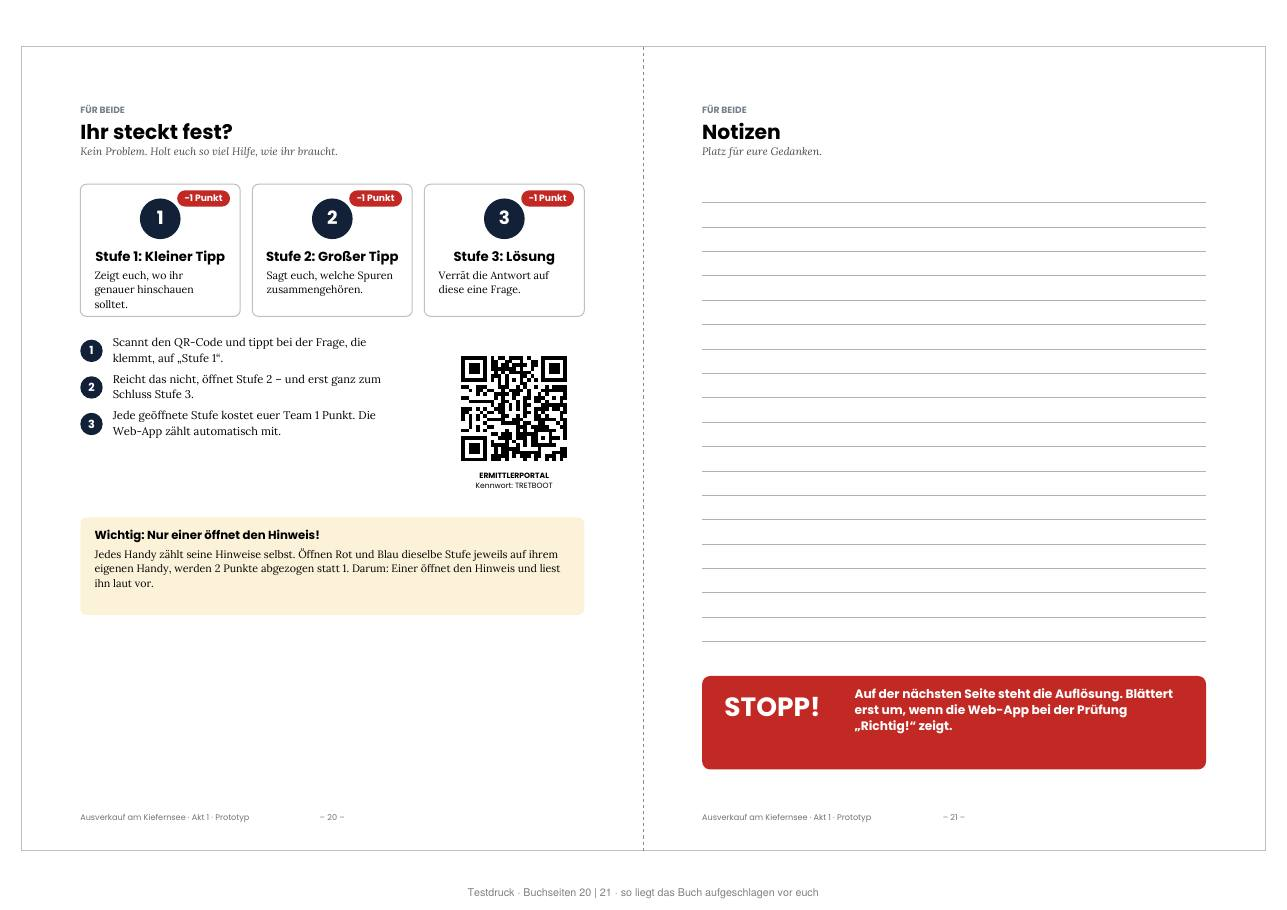
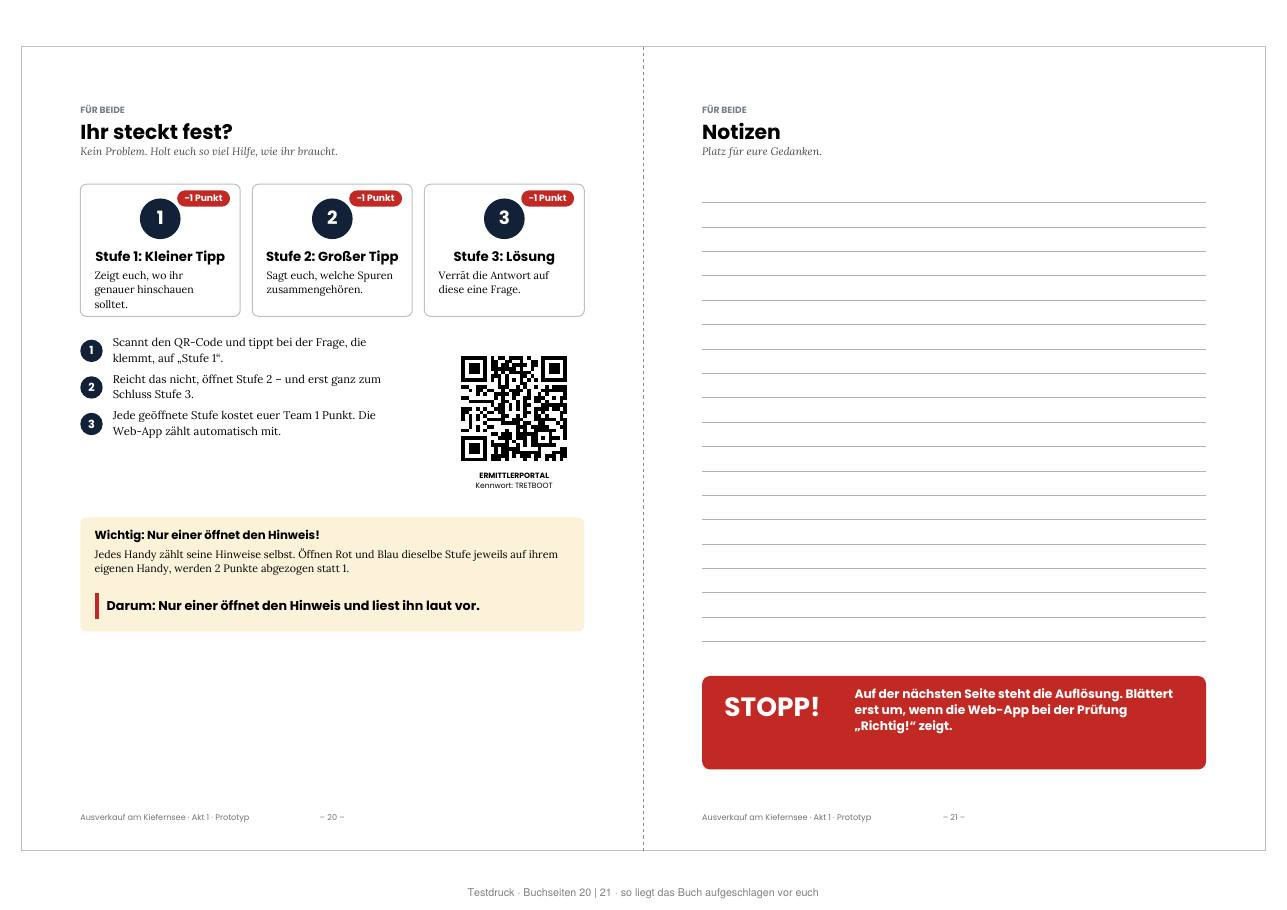
Seite 20: Satz zum Hinweis-Öffnen fett und abgesetzt; R-5: Notruf darf vorgespielt werden
Claude-Session: https://claude.ai/code/session_01AHTeNhKiCXfFq7WDMQCHQc

Changed region(s): [[0.0622, 0.6154, 0.4662, 0.7077]]

diff --git a/index.html b/index.html
@@ -135,7 +135,7 @@ button:disabled{opacity:.45;cursor:not-allowed}
 <div class="score"><div><b id="scoreTxt">10 Punkte</b><div id="scoreSub" class="small"></div></div><span aria-hidden="true">🔍</span></div>
 <p class="small" style="margin:0">📖 Notizbogen und Auflösung findet ihr im Buch.</p>
 <div><div class="navlab">Für beide</div><nav class="menu" aria-label="Gemeinsam"><button data-view="plan" class="alle"><b>Lageplan</b><span class="small">Luftbild</span></button><button data-view="cast" class="alle"><b>Personen</b><span class="small">Wer ist wer</span></button><button data-view="code" class="alle"><b>Code-Prüfung</b><span class="small">Akt 1 abschließen</span></button><button data-view="hints" class="alle"><b>Hinweise</b><span class="small">Hilfe in drei Stufen</span></button><button data-view="akt" class="alle"><b>Akt 1 abschließen</b><span class="small">Verdacht versiegeln</span></button><button data-view="neu" class="alle"><b>Neues Spiel</b><span class="small">Spielstand löschen</span></button></nav></div>
-<section id="v-r1" class="card rot" hidden><span class="lab"><span class="tag rot">AKTE ROT</span> R-1 · Erster Angriff, Kriminalpolizei Seebrück</span><h2>Bericht zum Leichenfund</h2><dl class="form"><dt>Aktenzeichen</dt><dd><p>31 Js 0926/BR</p></dd><dt>Meldung</dt><dd><p>Samstag, 26.09., 06:44 Uhr, Notruf über Leitstelle (Anruferin: Rita Schäfer)</p></dd><dt>Fundort</dt><dd><p>Campingplatz am Kiefernsee, Nordostufer, Schilfgürtel. Wassertiefe ca. 60 cm.</p></dd><dt>Person</dt><dd><p>Holger Brandner, 58 J., wohnhaft Frankfurt am Main. Gast in Mietchalet 3.</p></dd><dt>Auffindesituation</dt><dd><p>Leiche in Bauchlage im Flachwasser, unmittelbar neben dem treibenden Tretboot „Chantal“. Bekleidung: Jeans, Hemd, Sakko, Lederslipper.</p></dd><dt>Verletzungen</dt><dd><p>Platzwunde am Hinterkopf, ca. 4 cm. Keine Abwehrverletzungen.</p></dd><dt>Rechtsmedizin (vorläufig)</dt><dd><p>Dr. A. Okonkwo: Tod durch Ertrinken. Die Kopfverletzung entstand vor dem Eintritt ins Wasser, das Opfer war vermutlich bewusstlos. In der Wunde: mehrere kleine Holzsplitter, Nadelholz, vermutlich Lärche, mit grauer Lasur.</p><p>Todeszeitpunkt nach Körpertemperatur: zwischen 22:00 und 2:00 Uhr. Wegen der Wassertemperatur nicht enger bestimmbar.</p></dd><dt>Tretboot „Chantal“</dt><dd><p>Kunststoff (PE), Baujahr 2025. Keine Beschädigungen, keine Blut- oder Haaranhaftungen. Die Ankerkette hängt nicht am Boot.</p></dd><dt>Bearbeitung</dt><dd><p>EKHK&#x27;in J. Wendland, KK Brüggemann</p></dd></dl><figure class="photo"><a href="bilder/fundort.jpg" target="_blank" rel="noopener"><img src="bilder/fundort.jpg" alt="Rosa Tretboot leer im Schilf, davor rot-weißes Absperrband" loading="lazy"></a><figcaption>Lichtbild 1: Fundort am Schilfgürtel, Sa 26.09., 07:10 Uhr (nach Bergung)</figcaption></figure></section><section id="v-r2" class="card rot" hidden><span class="lab"><span class="tag rot">AKTE ROT</span> R-2 · Sichergestellte Gegenstände, Samstag, 26.09.</span><h2>Asservatenverzeichnis</h2><ol class="assv"><li><b class="mono">Nr. 1</b> <b>Brieftasche, Leder, schwarz</b><span>Fundort: am Körper, Innentasche Sakko</span><span>Inhalt: 240 € bar, 2 Kreditkarten, Ausweis</span></li><li><b class="mono">Nr. 2</b> <b>Ehering, Gold</b><span>Fundort: am Körper</span><span>Gravur „H. &amp; S. 1994“</span></li><li><b class="mono">Nr. 3</b> <b>Smartphone</b><span>Fundort: Tretboot, Sitzfläche</span><span>nass, aber funktionsfähig. Zur Auswertung (siehe Akte Blau)</span></li><li><b class="mono">Nr. 4</b> <b>Lesebrille</b><span>Fundort: Tretboot, Fußraum</span><span>–</span></li><li><b class="mono">Nr. 5</b> <b>Autoschlüssel (Mercedes)</b><span>Fundort: Mietchalet 3, Tisch</span><span>Fahrzeug steht auf Gästeparkplatz</span></li><li><b class="mono">Nr. 6</b> <b>Laptop</b><span>Fundort: Mietchalet 3, Reisetasche</span><span>passwortgeschützt</span></li><li><b class="mono">Nr. 7</b> <b>Reisetasche mit Kleidung</b><span>Fundort: Mietchalet 3</span><span>ordentlich gepackt</span></li><li><b class="mono">Nr. 8</b> <b>Kette mit Vorhängeschloss</b><span>Fundort: Bootssteg</span><span>gehört zum Tretboot „Chantal“. Schloss geöffnet, NICHT aufgebrochen (Lichtbild 2)</span></li></ol><p class="msg"><b>Vermerk:</b> Bargeld und Kreditkarten vollständig vorhanden. Ein Raubmord erscheint daher unwahrscheinlich. Mietchalet 3 war nicht abgeschlossen, keine Einbruchsspuren.</p><figure class="photo"><a href="bilder/asservat.jpg" target="_blank" rel="noopener"><img src="bilder/asservat.jpg" alt="Lose Kette und daneben ein geöffnetes, unbeschädigtes Vorhängeschloss auf grauen Holzbrettern, gelber Markierungsaufsteller" loading="lazy"></a><figcaption>Lichtbild 2: Asservat Nr. 8 auf dem Bootssteg, Sa 26.09., 07:25 Uhr</figcaption></figure></section><section id="v-r3" class="card rot" hidden><span class="lab"><span class="tag rot">AKTE ROT</span> R-3 · Handschriftlich geführt von Sven Ruppert, Nacht von Freitag auf Samstag</span><h2>Rundgangsprotokoll Sicherheitsdienst</h2><p class="small mono">SICHERHEITSDIENST RUPPERT · Objekt: Camping Kiefernsee · Datum: 25./26.09.</p><ol class="log"><li><b>22:00</b><span>Schranke geschlossen. Nachtruhe beginnt.</span></li><li><b>22:47</b><span>Parzelle 14 (Kowalski): Schlagermusik deutlich zu laut. Ermahnt. Zweite Ermahnung diesen Monat!!</span></li><li><b>23:30</b><span>Bootssteg: beide Tretboote („Kevin“ + „Chantal“) angekettet. Alles in Ordnung. Steg noch leicht klebrig.</span></li><li><b>23:34</b><span>Igel bei Sanitär 1. Kein Handlungsbedarf.</span></li><li><b>0:30</b><span>Bootssteg: Boot „Chantal“ FEHLT!! Kette liegt auf dem Steg, Schloss offen, nicht beschädigt. Vermutlich vom Hausmeister nicht richtig abgeschlossen. → Meldung an Rezeption morgen früh.</span></li><li><b>1:15</b><span>Sanitär 2: Licht brennt, niemand drin. Ausgeschaltet. Stromverschwendung!!</span></li><li><b>2:00</b><span>Schranke: ohne Befund.</span></li><li><b>3:00</b><span>Rundgang beendet. Keine besonderen Vorkommnisse.</span></li></ol><p class="sig">S. Ruppert</p></section><section id="v-r4" class="card rot" hidden><span class="lab"><span class="tag rot">AKTE ROT</span> R-4 · Samstag, 26.09., 07:30 Uhr, Rezeption. Vernehmung durch KK Brüggemann</span><h2>Vernehmung der Zeugin Rita Schäfer</h2><div class="qa mono"><p class="f"><b>F:</b> Frau Schäfer, Sie haben Herrn Brandner gefunden. Erzählen Sie bitte.</p><p class="a"><b>A:</b> Um 6:38. Ich fahr jeden Morgen die Brötchen aus, mit dem Lastenrad am Ufer lang. Da seh ich die Chantal im Schilf hängen. Und daneben im Wasser … den Herrn Brandner. Ich hab sofort die 110 angerufen.</p><p class="f"><b>F:</b> Ist Ihnen in der Nacht etwas aufgefallen?</p><p class="a"><b>A:</b> Ich wohn ja auf Parzelle 3, direkt am Steg. So gegen halb zwei hat&#x27;s da unten richtig laut PLATSCH gemacht. Ich hab noch gedacht: Jetzt ist einer reingefallen.</p><p class="f"><b>F:</b> Sind Sie nachsehen gegangen?</p><p class="a"><b>A:</b> Ich hatte schon die Lockenwickler drin. Da geh ich nicht mehr raus.</p><p class="f"><b>F:</b> Und vorher, so gegen Mitternacht?</p><p class="a"><b>A:</b> Da hab ich geschlafen. Ich schlaf ab zehn. Außer donnerstags, da kommt „Bauer sucht Frau“.</p><p class="f"><b>F:</b> Hatte Herr Brandner bei Ihnen Brötchen bestellt?</p><p class="a"><b>A:</b> Zwei Laugenbrezeln für Chalet 3. Die liegen jetzt noch in meinem Korb.</p></div><p class="small">Selbst gelesen, genehmigt, unterschrieben:</p><p class="sig">Rita Schäfer</p></section><section id="v-r5" class="card rot" hidden><span class="lab"><span class="tag rot">AKTE ROT</span> R-5 · Wetterstation an der Gaststätte Seeklause, Nacht 25./26.09.</span><h2>Wetterdaten und Notruf</h2><div class="scroll"><table class="mono"><thead><tr><th>Uhrzeit</th><th>Temp. °C</th><th>Wind aus</th><th>km/h</th></tr></thead><tbody><tr><td>22:00</td><td>11,8</td><td>SW</td><td>14</td></tr><tr><td>23:00</td><td>11,2</td><td>SW</td><td>18</td></tr><tr><td>0:00</td><td>10,6</td><td>SW</td><td>22</td></tr><tr><td>1:00</td><td>10,1</td><td>SW</td><td>20</td></tr><tr><td>2:00</td><td>9,7</td><td>SW</td><td>16</td></tr><tr><td>3:00</td><td>9,4</td><td>W</td><td>12</td></tr><tr><td>4:00</td><td>9,0</td><td>W</td><td>9</td></tr><tr><td>5:00</td><td>8,8</td><td>W</td><td>6</td></tr><tr><td>6:00</td><td>8,6</td><td>W</td><td>5</td></tr></tbody></table></div><p class="small mono">Niederschlag: 0 mm. Hinweis Wetterdienst: Ein Wind aus Südwest (SW) weht nach Nordosten.</p><h2 style="font-size:18px">Mitschnitt des Notrufs</h2><div class="voice"><span class="mono small">Leitstelle Seebrück · Sa 26.09. · 06:44 Uhr · 0:21</span><audio controls preload="metadata" src="audio/notruf-r5.mp3">Euer Browser kann die Aufnahme nicht abspielen.</audio></div><details class="voice"><summary>Abschrift anzeigen</summary><div class="mono" style="font-size:14px;display:flex;flex-direction:column;gap:6px"><p class="small">LEITSTELLE SEEBRÜCK · Notruf Sa 26.09., 06:44:12 Uhr · Anruferin: Rita Schäfer · Dauer 0:21</p><p><b>Leitstelle:</b> Notruf Leitstelle Seebrück. Wo genau ist der Notfallort?</p><p><b>Anruferin:</b> Hier ist die Rita vom Kiefernsee! Da liegt einer im Wasser, beim Schilf, das ist der Herr Brandner. Der bewegt sich nicht! Das Tretboot ist auch da, die Chantal. Bitte kommen Sie schnell!</p><p><b>Leitstelle:</b> Bleiben Sie, wo Sie sind, und gehen Sie nicht ins Wasser. Rettungswagen und Polizei sind unterwegs.</p><p class="small">06:45 Uhr: Rettungswagen und Streife alarmiert.</p></div></details></section><section id="v-b1" class="card blau" hidden><span class="lab"><span class="tag blau">AKTE BLAU</span> B-1 · Interessengemeinschaft der Dauercamper am Kiefernsee e. V. (in Gründung)</span><h2>Protokoll der Platzversammlung</h2><dl class="form"><dt>Ort / Zeit</dt><dd><p>Gaststätte Seeklause, Freitag, 25.09., 19:00 bis 21:30 Uhr</p></dd><dt>Anwesend</dt><dd><p>31 Dauercamper, Platzbetreiber Mark Böttcher, Herr Holger Brandner (Brandner Freizeit &amp; Resort GmbH), Hausmeister Marco Lenz, Sicherheitsdienst Sven Ruppert (am Eingang), Frau Nova Sommer (Gast)</p></dd><dt>TOP 1</dt><dd><p>Begrüßung durch Herrn Böttcher. Er möchte „mit 61 nicht mehr jeden Morgen Rasen mähen und Beschwerden lesen“.</p></dd><dt>TOP 2</dt><dd><p>Herr Brandner stellt das „Kiefernsee Glamping Resort“ vor: 40 Safarizelte, ein Saunafloß, die Dauerparzellen enden am 31.12.2027. Er holt den Vorvertrag aus seiner roten Ledermappe und sagt: „Hier fehlt nur noch eine Unterschrift.“</p></dd><dt>TOP 3</dt><dd><p>Aussprache, sehr lebhaft. Herr Kowalski: „Nur über meinen Grill.“ Frau Sommer fragt, ob es im Resort Steckdosen für Vans gibt. Herr Lenz fragt, ob das Personal übernommen wird. Herr Brandner: „Wir bringen unser eigenes Team mit.“ Herr Lenz verlässt kurz den Raum.</p></dd><dt>TOP 4</dt><dd><p>Abstimmung (nicht bindend): 0 dafür, 31 dagegen, 1 Enthaltung (Herr Ruppert, „aus dienstlichen Gründen neutral“).</p></dd><dt>Ende</dt><dd><p>21:30 Uhr. Herr Brandner verabschiedet sich mit der roten Mappe unter dem Arm: „Ich bin noch bis Sonntag in Chalet 3. Meine Tür steht offen.“</p></dd><dt>Sonstiges</dt><dd><p>Die Bowle war zu süß.</p></dd></dl><p class="sig">A. Wohlfahrt</p><p class="small">Angelika Wohlfahrt, Schriftführerin</p></section><section id="v-b2" class="card blau" hidden><span class="lab"><span class="tag blau">AKTE BLAU</span> B-2 · Auszug vom Handy von Angelika Wohlfahrt, Donnerstag bis Samstag</span><h2>Chat „Kiefernsee Dauercamper“</h2><div class="chat"><div class="day">DONNERSTAG, 24. SEPTEMBER</div><div class="bub"><b>Marco (Hausmeister)</b><span class="t">17:02</span><p>Steg ist frisch lasiert. Lärche, grau. Bis Freitagabend bitte NICHT betreten!! Auch nicht „nur kurz“, Siggi.</p></div><div class="bub"><b>Siggi P14</b><span class="t">17:05</span><p>Das mit den Fußspuren letztes Jahr war ich nicht.</p></div><div class="bub own"><b>Ich</b><span class="t">17:06</span><p>Doch.</p></div><div class="day">FREITAG, 25. SEPTEMBER</div><div class="bub own"><b>Ich</b><span class="t">12:30</span><p>Erinnerung: Heute 19 Uhr Versammlung in der Seeklause. Thema: Herr Brandner und seine „Glamping-Pläne“. Bitte zahlreich erscheinen!</p></div><div class="bub"><b>Siggi P14</b><span class="t">12:41</span><p>Ich bring meinen Grill mit. Als Argument.</p></div><div class="bub"><b>Siggi P14</b><span class="t">21:48</span><p>Habt ihr gesehen, wie der seine rote Mappe festhält? Wie ein Baby.</p></div><div class="bub own"><b>Ich</b><span class="t">21:49</span><p>Da ist der Vorvertrag drin. Wenn Mark unterschreibt, sind wir Ende 2027 alle weg.</p></div><div class="bub"><b>Mark (Platzbetreiber)</b><span class="t">21:52</span><p>Leute, ich hab noch nichts unterschrieben. Schlaft drüber. Ich auch.</p></div><div class="bub"><b>Sven (Security)</b><span class="t">23:05</span><p>Erinnerung: Ab 22 Uhr ist Nachtruhe. Parzelle 14, ich hör den Schlager bis zur Schranke.</p></div><div class="bub"><b>Siggi P14</b><span class="t">23:06</span><p>Das ist Kultur.</p></div><div class="day">SAMSTAG, 26. SEPTEMBER</div><div class="bub"><b>Rita P3</b><span class="t">06:52</span><p>POLIZEI IST SCHON DA. Am Schilf. Der Herr Brandner. Oh Gott.</p></div><div class="bub own"><b>Ich</b><span class="t">06:58</span><p>Was ist passiert??</p></div><div class="bub"><b>Mark (Platzbetreiber)</b><span class="t">07:03</span><p>Bitte alle auf euren Parzellen bleiben. Die Polizei will mit jedem sprechen.</p></div></div></section><section id="v-b3" class="card blau" hidden><span class="lab"><span class="tag blau">AKTE BLAU</span> B-3 · Kriminaltechnik Seebrück · Gerät aus dem Tretboot</span><h2>Sprachnachricht an Dr. Kessler</h2><p>Das Handy von Holger Brandner war nass, ließ sich aber auslesen. Die letzte Aktivität vor dem Tod ist eine Sprachnachricht an seinen Anwalt. Ihr dürft sie Akte Rot vorspielen.</p><div class="voice"><span class="mono small">Von: Holger Brandner · An: Dr. Kessler (Kanzlei) · Fr 23:41 · 0:19</span><audio controls preload="metadata" src="audio/sprachnachricht-b3.mp3">Euer Browser kann die Aufnahme nicht abspielen.</audio></div><details class="voice"><summary>Abschrift anzeigen</summary><p>„Kessler, ich bin&#x27;s. Die Versammlung war ein Zirkus, aber egal. Ich geh gleich noch runter zum Steg. Da will mir jemand was zeigen. Angeblich was über den Platz, das den Preis ordentlich drückt. Wenn das stimmt, unterschreibt Böttcher am Montag zu unseren Bedingungen. Ruf mich morgen früh an.“</p></details></section><section id="v-b4" class="card blau" hidden><span class="lab"><span class="tag blau">AKTE BLAU</span> B-4 · Gesichert vom Profil @nova.on.wheels, Gast auf Stellplatz G2</span><h2>Novas Story, Freitag, 25. September</h2><p>Frau Sommer postet fast jeden Abend eine „Story“ – kurze Fotos, die nach 24 Stunden wieder verschwinden. Wir haben sie vorher gesichert.</p><p class="msg">Aussage Nova Sommer, Samstag, 8:15 Uhr: „Ich mach jeden Abend ein paar Storys, das ist mein Job. Was drauf ist, sehen Sie ja selbst. Den Herrn Brandner fand ich ehrlich gesagt ganz okay. Er hat mir gesagt, für Vans gibt's im Resort eine Sonderspur.“</p><div class="story"><figure class="frame"><div class="bar"></div><div class="top"><span><b>nova.on.wheels</b> · 23:12</span><span>🌙</span></div><a href="bilder/nova-2312.jpg" target="_blank" rel="noopener"><img src="bilder/nova-2312.jpg" loading="lazy" alt="Nachtaufnahme aus dem Van-Fenster: Vor einem dunklen Holzgebäude steht eine Person, nur als Silhouette erkennbar, im hellen Lichtkegel einer Taschenlampe."></a><figcaption class="cap">Letzter Abend am Kiefernsee 🥲 So still hier nach der Versammlung. #vanlife #camping #seeblick</figcaption></figure><figure class="frame"><div class="bar"></div><div class="top"><span><b>nova.on.wheels</b> · 01:28</span><span>🐶</span></div><a href="bilder/nova-0128.jpg" target="_blank" rel="noopener"><img src="bilder/nova-0128.jpg" loading="lazy" alt="Nachtaufnahme am See: Ein kleiner weiß-brauner Hund springt durchs flache Wasser, es spritzt. Rechts unten der Rand des grauen Holzstegs."></a><figcaption class="cap">1:28 Uhr. Pepper muss natürlich noch mal vom Steg in den See springen. PLATSCH. 🙄🐶 Sorry an alle Nachbarn!!</figcaption></figure></div><p class="small">Schaut genau hin: Uhrzeit, Ort, Licht, was passiert. Beschreibt es Akte Rot.</p></section><section id="v-b5" class="card blau" hidden><span class="lab"><span class="tag blau">AKTE BLAU</span> B-5 · Fotografiert am Samstag, 26.09., 8:00 Uhr</span><h2>Das Schwarze Brett an der Rezeption</h2><figure class="photo"><a href="bilder/brett.jpg" target="_blank" rel="noopener"><img src="bilder/brett.jpg" alt="Korkpinnwand mit sechs Zetteln: Bootsverleih, Wichtig, Brötchenservice, Gefunden, Nachtruhe, Vermisst" loading="lazy"></a><figcaption>Lichtbild: Spurensicherung Seebrück. Tippt auf das Foto, um es groß zu sehen.</figcaption></figure><details class="voice"><summary>BOOTSVERLEIH</summary><p>Tretboote „Kevin“ und „Chantal“ (neu, Kunststoff). Schlüssel an der Rezeption. Fahrten nur 9 bis 19 Uhr. Nachts sind die Boote angekettet!<br>– Marco</p></details><details class="voice"><summary>WICHTIG</summary><p>Die Holzbank am Badestrand wurde abgebaut (morsch). Am Strand gibt es jetzt nur noch Sand und Kunststoffliegen.<br>– Die Platzleitung</p></details><details class="voice"><summary>Brötchenservice</summary><p>Bestellschluss: 18 Uhr am Vortag. Wer später kommt, bekommt Knäckebrot.<br>– Rita</p></details><details class="voice"><summary>GEFUNDEN</summary><p>1 Grillzange. Abzuholen bei Siggi, Parzelle 14.<br>(Ist wahrscheinlich meine.)</p></details><details class="voice"><summary>NACHTRUHE 22–7 UHR</summary><p>Wird kontrolliert!!!<br>– Sicherheitsdienst S. Ruppert</p></details><details class="voice"><summary>VERMISST</summary><p>Wer hat meinen Gartenzwerg „Hubert“ gesehen? Rote Mütze, freundlicher Blick.<br>– Angelika, P7</p></details></section><section id="v-plan" class="card alle" hidden><span class="lab"><span class="tag alle">FÜR BEIDE</span> Luftbild der Polizeidrohne, Samstag, 26.09. · Norden ist oben</span><h2>Lageplan</h2><figure class="photo"><a href="bilder/lageplan.jpg" target="_blank" rel="noopener"><img src="bilder/lageplan.jpg" alt="Beschriftetes Luftbild des Campingplatzes am Kiefernsee" loading="lazy"></a><figcaption>Tippt auf den Plan, um ihn groß zu sehen.</figcaption></figure><p class="small">Rita Schäfer wohnt auf Parzelle 3, gleich oberhalb vom Steg. Nova Sommer steht mit ihrem Van auf G2. Die Wetterstation hängt an der Gaststätte Seeklause.</p></section><section id="v-cast" class="card alle" hidden><span class="lab"><span class="tag alle">FÜR BEIDE</span> Personenregister zum Fall</span><h2>Wer ist wer am Kiefernsee?</h2><ul class="cast"><li><b>Holger Brandner</b> <span class="small">58 Jahre</span><p>Das Opfer. Projektentwickler, „Brandner Freizeit &amp; Resort GmbH“. Wollte den Platz kaufen. Wohnte übers Wochenende in Mietchalet 3.</p></li><li><b>Mark Böttcher</b> <span class="small">61 Jahre</span><p>Platzbetreiber. Will verkaufen: „Ich mäh seit 30 Jahren Rasen und lese Beschwerden.“</p></li><li><b>Angelika Wohlfahrt</b> <span class="small">67 Jahre</span><p>Dauercamperin seit 1998, Parzelle 7. Sprecherin der Dauercamper und Schriftführerin. Weiß alles über jeden.</p></li><li><b>Siggi Kowalski</b> <span class="small">64 Jahre</span><p>Dauercamper, Parzelle 14. Grillmeister, Schlagerfan, Gegner jeder Veränderung.</p></li><li><b>Marco Lenz</b> <span class="small">45 Jahre</span><p>Hausmeister. Repariert alles, streicht alles, hat Schlüssel für alles.</p></li><li><b>Sven Ruppert</b> <span class="small">34 Jahre</span><p>Sicherheitsdienst. Nimmt die Nachtruhe sehr, sehr ernst.</p></li><li><b>Nova Sommer</b> <span class="small">26 Jahre</span><p>Gast mit Van auf Stellplatz G2. Vanlife-Influencerin (@nova.on.wheels), reist mit Hund Pepper.</p></li><li><b>Rita Schäfer</b> <span class="small">59 Jahre</span><p>Kiosk und Brötchendienst, Parzelle 3 direkt am Steg. Hat den Toten gefunden.</p></li></ul></section>
+<section id="v-r1" class="card rot" hidden><span class="lab"><span class="tag rot">AKTE ROT</span> R-1 · Erster Angriff, Kriminalpolizei Seebrück</span><h2>Bericht zum Leichenfund</h2><dl class="form"><dt>Aktenzeichen</dt><dd><p>31 Js 0926/BR</p></dd><dt>Meldung</dt><dd><p>Samstag, 26.09., 06:44 Uhr, Notruf über Leitstelle (Anruferin: Rita Schäfer)</p></dd><dt>Fundort</dt><dd><p>Campingplatz am Kiefernsee, Nordostufer, Schilfgürtel. Wassertiefe ca. 60 cm.</p></dd><dt>Person</dt><dd><p>Holger Brandner, 58 J., wohnhaft Frankfurt am Main. Gast in Mietchalet 3.</p></dd><dt>Auffindesituation</dt><dd><p>Leiche in Bauchlage im Flachwasser, unmittelbar neben dem treibenden Tretboot „Chantal“. Bekleidung: Jeans, Hemd, Sakko, Lederslipper.</p></dd><dt>Verletzungen</dt><dd><p>Platzwunde am Hinterkopf, ca. 4 cm. Keine Abwehrverletzungen.</p></dd><dt>Rechtsmedizin (vorläufig)</dt><dd><p>Dr. A. Okonkwo: Tod durch Ertrinken. Die Kopfverletzung entstand vor dem Eintritt ins Wasser, das Opfer war vermutlich bewusstlos. In der Wunde: mehrere kleine Holzsplitter, Nadelholz, vermutlich Lärche, mit grauer Lasur.</p><p>Todeszeitpunkt nach Körpertemperatur: zwischen 22:00 und 2:00 Uhr. Wegen der Wassertemperatur nicht enger bestimmbar.</p></dd><dt>Tretboot „Chantal“</dt><dd><p>Kunststoff (PE), Baujahr 2025. Keine Beschädigungen, keine Blut- oder Haaranhaftungen. Die Ankerkette hängt nicht am Boot.</p></dd><dt>Bearbeitung</dt><dd><p>EKHK&#x27;in J. Wendland, KK Brüggemann</p></dd></dl><figure class="photo"><a href="bilder/fundort.jpg" target="_blank" rel="noopener"><img src="bilder/fundort.jpg" alt="Rosa Tretboot leer im Schilf, davor rot-weißes Absperrband" loading="lazy"></a><figcaption>Lichtbild 1: Fundort am Schilfgürtel, Sa 26.09., 07:10 Uhr (nach Bergung)</figcaption></figure></section><section id="v-r2" class="card rot" hidden><span class="lab"><span class="tag rot">AKTE ROT</span> R-2 · Sichergestellte Gegenstände, Samstag, 26.09.</span><h2>Asservatenverzeichnis</h2><ol class="assv"><li><b class="mono">Nr. 1</b> <b>Brieftasche, Leder, schwarz</b><span>Fundort: am Körper, Innentasche Sakko</span><span>Inhalt: 240 € bar, 2 Kreditkarten, Ausweis</span></li><li><b class="mono">Nr. 2</b> <b>Ehering, Gold</b><span>Fundort: am Körper</span><span>Gravur „H. &amp; S. 1994“</span></li><li><b class="mono">Nr. 3</b> <b>Smartphone</b><span>Fundort: Tretboot, Sitzfläche</span><span>nass, aber funktionsfähig. Zur Auswertung (siehe Akte Blau)</span></li><li><b class="mono">Nr. 4</b> <b>Lesebrille</b><span>Fundort: Tretboot, Fußraum</span><span>–</span></li><li><b class="mono">Nr. 5</b> <b>Autoschlüssel (Mercedes)</b><span>Fundort: Mietchalet 3, Tisch</span><span>Fahrzeug steht auf Gästeparkplatz</span></li><li><b class="mono">Nr. 6</b> <b>Laptop</b><span>Fundort: Mietchalet 3, Reisetasche</span><span>passwortgeschützt</span></li><li><b class="mono">Nr. 7</b> <b>Reisetasche mit Kleidung</b><span>Fundort: Mietchalet 3</span><span>ordentlich gepackt</span></li><li><b class="mono">Nr. 8</b> <b>Kette mit Vorhängeschloss</b><span>Fundort: Bootssteg</span><span>gehört zum Tretboot „Chantal“. Schloss geöffnet, NICHT aufgebrochen (Lichtbild 2)</span></li></ol><p class="msg"><b>Vermerk:</b> Bargeld und Kreditkarten vollständig vorhanden. Ein Raubmord erscheint daher unwahrscheinlich. Mietchalet 3 war nicht abgeschlossen, keine Einbruchsspuren.</p><figure class="photo"><a href="bilder/asservat.jpg" target="_blank" rel="noopener"><img src="bilder/asservat.jpg" alt="Lose Kette und daneben ein geöffnetes, unbeschädigtes Vorhängeschloss auf grauen Holzbrettern, gelber Markierungsaufsteller" loading="lazy"></a><figcaption>Lichtbild 2: Asservat Nr. 8 auf dem Bootssteg, Sa 26.09., 07:25 Uhr</figcaption></figure></section><section id="v-r3" class="card rot" hidden><span class="lab"><span class="tag rot">AKTE ROT</span> R-3 · Handschriftlich geführt von Sven Ruppert, Nacht von Freitag auf Samstag</span><h2>Rundgangsprotokoll Sicherheitsdienst</h2><p class="small mono">SICHERHEITSDIENST RUPPERT · Objekt: Camping Kiefernsee · Datum: 25./26.09.</p><ol class="log"><li><b>22:00</b><span>Schranke geschlossen. Nachtruhe beginnt.</span></li><li><b>22:47</b><span>Parzelle 14 (Kowalski): Schlagermusik deutlich zu laut. Ermahnt. Zweite Ermahnung diesen Monat!!</span></li><li><b>23:30</b><span>Bootssteg: beide Tretboote („Kevin“ + „Chantal“) angekettet. Alles in Ordnung. Steg noch leicht klebrig.</span></li><li><b>23:34</b><span>Igel bei Sanitär 1. Kein Handlungsbedarf.</span></li><li><b>0:30</b><span>Bootssteg: Boot „Chantal“ FEHLT!! Kette liegt auf dem Steg, Schloss offen, nicht beschädigt. Vermutlich vom Hausmeister nicht richtig abgeschlossen. → Meldung an Rezeption morgen früh.</span></li><li><b>1:15</b><span>Sanitär 2: Licht brennt, niemand drin. Ausgeschaltet. Stromverschwendung!!</span></li><li><b>2:00</b><span>Schranke: ohne Befund.</span></li><li><b>3:00</b><span>Rundgang beendet. Keine besonderen Vorkommnisse.</span></li></ol><p class="sig">S. Ruppert</p></section><section id="v-r4" class="card rot" hidden><span class="lab"><span class="tag rot">AKTE ROT</span> R-4 · Samstag, 26.09., 07:30 Uhr, Rezeption. Vernehmung durch KK Brüggemann</span><h2>Vernehmung der Zeugin Rita Schäfer</h2><div class="qa mono"><p class="f"><b>F:</b> Frau Schäfer, Sie haben Herrn Brandner gefunden. Erzählen Sie bitte.</p><p class="a"><b>A:</b> Um 6:38. Ich fahr jeden Morgen die Brötchen aus, mit dem Lastenrad am Ufer lang. Da seh ich die Chantal im Schilf hängen. Und daneben im Wasser … den Herrn Brandner. Ich hab sofort die 110 angerufen.</p><p class="f"><b>F:</b> Ist Ihnen in der Nacht etwas aufgefallen?</p><p class="a"><b>A:</b> Ich wohn ja auf Parzelle 3, direkt am Steg. So gegen halb zwei hat&#x27;s da unten richtig laut PLATSCH gemacht. Ich hab noch gedacht: Jetzt ist einer reingefallen.</p><p class="f"><b>F:</b> Sind Sie nachsehen gegangen?</p><p class="a"><b>A:</b> Ich hatte schon die Lockenwickler drin. Da geh ich nicht mehr raus.</p><p class="f"><b>F:</b> Und vorher, so gegen Mitternacht?</p><p class="a"><b>A:</b> Da hab ich geschlafen. Ich schlaf ab zehn. Außer donnerstags, da kommt „Bauer sucht Frau“.</p><p class="f"><b>F:</b> Hatte Herr Brandner bei Ihnen Brötchen bestellt?</p><p class="a"><b>A:</b> Zwei Laugenbrezeln für Chalet 3. Die liegen jetzt noch in meinem Korb.</p></div><p class="small">Selbst gelesen, genehmigt, unterschrieben:</p><p class="sig">Rita Schäfer</p></section><section id="v-r5" class="card rot" hidden><span class="lab"><span class="tag rot">AKTE ROT</span> R-5 · Wetterstation an der Gaststätte Seeklause, Nacht 25./26.09.</span><h2>Wetterdaten und Notruf</h2><div class="scroll"><table class="mono"><thead><tr><th>Uhrzeit</th><th>Temp. °C</th><th>Wind aus</th><th>km/h</th></tr></thead><tbody><tr><td>22:00</td><td>11,8</td><td>SW</td><td>14</td></tr><tr><td>23:00</td><td>11,2</td><td>SW</td><td>18</td></tr><tr><td>0:00</td><td>10,6</td><td>SW</td><td>22</td></tr><tr><td>1:00</td><td>10,1</td><td>SW</td><td>20</td></tr><tr><td>2:00</td><td>9,7</td><td>SW</td><td>16</td></tr><tr><td>3:00</td><td>9,4</td><td>W</td><td>12</td></tr><tr><td>4:00</td><td>9,0</td><td>W</td><td>9</td></tr><tr><td>5:00</td><td>8,8</td><td>W</td><td>6</td></tr><tr><td>6:00</td><td>8,6</td><td>W</td><td>5</td></tr></tbody></table></div><p class="small mono">Niederschlag: 0 mm. Hinweis Wetterdienst: Ein Wind aus Südwest (SW) weht nach Nordosten.</p><h2 style="font-size:18px">Mitschnitt des Notrufs</h2><p>Ihr dürft ihn Akte Blau vorspielen.</p><div class="voice"><span class="mono small">Leitstelle Seebrück · Sa 26.09. · 06:44 Uhr · 0:21</span><audio controls preload="metadata" src="audio/notruf-r5.mp3">Euer Browser kann die Aufnahme nicht abspielen.</audio></div><details class="voice"><summary>Abschrift anzeigen</summary><div class="mono" style="font-size:14px;display:flex;flex-direction:column;gap:6px"><p class="small">LEITSTELLE SEEBRÜCK · Notruf Sa 26.09., 06:44:12 Uhr · Anruferin: Rita Schäfer · Dauer 0:21</p><p><b>Leitstelle:</b> Notruf Leitstelle Seebrück. Wo genau ist der Notfallort?</p><p><b>Anruferin:</b> Hier ist die Rita vom Kiefernsee! Da liegt einer im Wasser, beim Schilf, das ist der Herr Brandner. Der bewegt sich nicht! Das Tretboot ist auch da, die Chantal. Bitte kommen Sie schnell!</p><p><b>Leitstelle:</b> Bleiben Sie, wo Sie sind, und gehen Sie nicht ins Wasser. Rettungswagen und Polizei sind unterwegs.</p><p class="small">06:45 Uhr: Rettungswagen und Streife alarmiert.</p></div></details></section><section id="v-b1" class="card blau" hidden><span class="lab"><span class="tag blau">AKTE BLAU</span> B-1 · Interessengemeinschaft der Dauercamper am Kiefernsee e. V. (in Gründung)</span><h2>Protokoll der Platzversammlung</h2><dl class="form"><dt>Ort / Zeit</dt><dd><p>Gaststätte Seeklause, Freitag, 25.09., 19:00 bis 21:30 Uhr</p></dd><dt>Anwesend</dt><dd><p>31 Dauercamper, Platzbetreiber Mark Böttcher, Herr Holger Brandner (Brandner Freizeit &amp; Resort GmbH), Hausmeister Marco Lenz, Sicherheitsdienst Sven Ruppert (am Eingang), Frau Nova Sommer (Gast)</p></dd><dt>TOP 1</dt><dd><p>Begrüßung durch Herrn Böttcher. Er möchte „mit 61 nicht mehr jeden Morgen Rasen mähen und Beschwerden lesen“.</p></dd><dt>TOP 2</dt><dd><p>Herr Brandner stellt das „Kiefernsee Glamping Resort“ vor: 40 Safarizelte, ein Saunafloß, die Dauerparzellen enden am 31.12.2027. Er holt den Vorvertrag aus seiner roten Ledermappe und sagt: „Hier fehlt nur noch eine Unterschrift.“</p></dd><dt>TOP 3</dt><dd><p>Aussprache, sehr lebhaft. Herr Kowalski: „Nur über meinen Grill.“ Frau Sommer fragt, ob es im Resort Steckdosen für Vans gibt. Herr Lenz fragt, ob das Personal übernommen wird. Herr Brandner: „Wir bringen unser eigenes Team mit.“ Herr Lenz verlässt kurz den Raum.</p></dd><dt>TOP 4</dt><dd><p>Abstimmung (nicht bindend): 0 dafür, 31 dagegen, 1 Enthaltung (Herr Ruppert, „aus dienstlichen Gründen neutral“).</p></dd><dt>Ende</dt><dd><p>21:30 Uhr. Herr Brandner verabschiedet sich mit der roten Mappe unter dem Arm: „Ich bin noch bis Sonntag in Chalet 3. Meine Tür steht offen.“</p></dd><dt>Sonstiges</dt><dd><p>Die Bowle war zu süß.</p></dd></dl><p class="sig">A. Wohlfahrt</p><p class="small">Angelika Wohlfahrt, Schriftführerin</p></section><section id="v-b2" class="card blau" hidden><span class="lab"><span class="tag blau">AKTE BLAU</span> B-2 · Auszug vom Handy von Angelika Wohlfahrt, Donnerstag bis Samstag</span><h2>Chat „Kiefernsee Dauercamper“</h2><div class="chat"><div class="day">DONNERSTAG, 24. SEPTEMBER</div><div class="bub"><b>Marco (Hausmeister)</b><span class="t">17:02</span><p>Steg ist frisch lasiert. Lärche, grau. Bis Freitagabend bitte NICHT betreten!! Auch nicht „nur kurz“, Siggi.</p></div><div class="bub"><b>Siggi P14</b><span class="t">17:05</span><p>Das mit den Fußspuren letztes Jahr war ich nicht.</p></div><div class="bub own"><b>Ich</b><span class="t">17:06</span><p>Doch.</p></div><div class="day">FREITAG, 25. SEPTEMBER</div><div class="bub own"><b>Ich</b><span class="t">12:30</span><p>Erinnerung: Heute 19 Uhr Versammlung in der Seeklause. Thema: Herr Brandner und seine „Glamping-Pläne“. Bitte zahlreich erscheinen!</p></div><div class="bub"><b>Siggi P14</b><span class="t">12:41</span><p>Ich bring meinen Grill mit. Als Argument.</p></div><div class="bub"><b>Siggi P14</b><span class="t">21:48</span><p>Habt ihr gesehen, wie der seine rote Mappe festhält? Wie ein Baby.</p></div><div class="bub own"><b>Ich</b><span class="t">21:49</span><p>Da ist der Vorvertrag drin. Wenn Mark unterschreibt, sind wir Ende 2027 alle weg.</p></div><div class="bub"><b>Mark (Platzbetreiber)</b><span class="t">21:52</span><p>Leute, ich hab noch nichts unterschrieben. Schlaft drüber. Ich auch.</p></div><div class="bub"><b>Sven (Security)</b><span class="t">23:05</span><p>Erinnerung: Ab 22 Uhr ist Nachtruhe. Parzelle 14, ich hör den Schlager bis zur Schranke.</p></div><div class="bub"><b>Siggi P14</b><span class="t">23:06</span><p>Das ist Kultur.</p></div><div class="day">SAMSTAG, 26. SEPTEMBER</div><div class="bub"><b>Rita P3</b><span class="t">06:52</span><p>POLIZEI IST SCHON DA. Am Schilf. Der Herr Brandner. Oh Gott.</p></div><div class="bub own"><b>Ich</b><span class="t">06:58</span><p>Was ist passiert??</p></div><div class="bub"><b>Mark (Platzbetreiber)</b><span class="t">07:03</span><p>Bitte alle auf euren Parzellen bleiben. Die Polizei will mit jedem sprechen.</p></div></div></section><section id="v-b3" class="card blau" hidden><span class="lab"><span class="tag blau">AKTE BLAU</span> B-3 · Kriminaltechnik Seebrück · Gerät aus dem Tretboot</span><h2>Sprachnachricht an Dr. Kessler</h2><p>Das Handy von Holger Brandner war nass, ließ sich aber auslesen. Die letzte Aktivität vor dem Tod ist eine Sprachnachricht an seinen Anwalt. Ihr dürft sie Akte Rot vorspielen.</p><div class="voice"><span class="mono small">Von: Holger Brandner · An: Dr. Kessler (Kanzlei) · Fr 23:41 · 0:19</span><audio controls preload="metadata" src="audio/sprachnachricht-b3.mp3">Euer Browser kann die Aufnahme nicht abspielen.</audio></div><details class="voice"><summary>Abschrift anzeigen</summary><p>„Kessler, ich bin&#x27;s. Die Versammlung war ein Zirkus, aber egal. Ich geh gleich noch runter zum Steg. Da will mir jemand was zeigen. Angeblich was über den Platz, das den Preis ordentlich drückt. Wenn das stimmt, unterschreibt Böttcher am Montag zu unseren Bedingungen. Ruf mich morgen früh an.“</p></details></section><section id="v-b4" class="card blau" hidden><span class="lab"><span class="tag blau">AKTE BLAU</span> B-4 · Gesichert vom Profil @nova.on.wheels, Gast auf Stellplatz G2</span><h2>Novas Story, Freitag, 25. September</h2><p>Frau Sommer postet fast jeden Abend eine „Story“ – kurze Fotos, die nach 24 Stunden wieder verschwinden. Wir haben sie vorher gesichert.</p><p class="msg">Aussage Nova Sommer, Samstag, 8:15 Uhr: „Ich mach jeden Abend ein paar Storys, das ist mein Job. Was drauf ist, sehen Sie ja selbst. Den Herrn Brandner fand ich ehrlich gesagt ganz okay. Er hat mir gesagt, für Vans gibt's im Resort eine Sonderspur.“</p><div class="story"><figure class="frame"><div class="bar"></div><div class="top"><span><b>nova.on.wheels</b> · 23:12</span><span>🌙</span></div><a href="bilder/nova-2312.jpg" target="_blank" rel="noopener"><img src="bilder/nova-2312.jpg" loading="lazy" alt="Nachtaufnahme aus dem Van-Fenster: Vor einem dunklen Holzgebäude steht eine Person, nur als Silhouette erkennbar, im hellen Lichtkegel einer Taschenlampe."></a><figcaption class="cap">Letzter Abend am Kiefernsee 🥲 So still hier nach der Versammlung. #vanlife #camping #seeblick</figcaption></figure><figure class="frame"><div class="bar"></div><div class="top"><span><b>nova.on.wheels</b> · 01:28</span><span>🐶</span></div><a href="bilder/nova-0128.jpg" target="_blank" rel="noopener"><img src="bilder/nova-0128.jpg" loading="lazy" alt="Nachtaufnahme am See: Ein kleiner weiß-brauner Hund springt durchs flache Wasser, es spritzt. Rechts unten der Rand des grauen Holzstegs."></a><figcaption class="cap">1:28 Uhr. Pepper muss natürlich noch mal vom Steg in den See springen. PLATSCH. 🙄🐶 Sorry an alle Nachbarn!!</figcaption></figure></div><p class="small">Schaut genau hin: Uhrzeit, Ort, Licht, was passiert. Beschreibt es Akte Rot.</p></section><section id="v-b5" class="card blau" hidden><span class="lab"><span class="tag blau">AKTE BLAU</span> B-5 · Fotografiert am Samstag, 26.09., 8:00 Uhr</span><h2>Das Schwarze Brett an der Rezeption</h2><figure class="photo"><a href="bilder/brett.jpg" target="_blank" rel="noopener"><img src="bilder/brett.jpg" alt="Korkpinnwand mit sechs Zetteln: Bootsverleih, Wichtig, Brötchenservice, Gefunden, Nachtruhe, Vermisst" loading="lazy"></a><figcaption>Lichtbild: Spurensicherung Seebrück. Tippt auf das Foto, um es groß zu sehen.</figcaption></figure><details class="voice"><summary>BOOTSVERLEIH</summary><p>Tretboote „Kevin“ und „Chantal“ (neu, Kunststoff). Schlüssel an der Rezeption. Fahrten nur 9 bis 19 Uhr. Nachts sind die Boote angekettet!<br>– Marco</p></details><details class="voice"><summary>WICHTIG</summary><p>Die Holzbank am Badestrand wurde abgebaut (morsch). Am Strand gibt es jetzt nur noch Sand und Kunststoffliegen.<br>– Die Platzleitung</p></details><details class="voice"><summary>Brötchenservice</summary><p>Bestellschluss: 18 Uhr am Vortag. Wer später kommt, bekommt Knäckebrot.<br>– Rita</p></details><details class="voice"><summary>GEFUNDEN</summary><p>1 Grillzange. Abzuholen bei Siggi, Parzelle 14.<br>(Ist wahrscheinlich meine.)</p></details><details class="voice"><summary>NACHTRUHE 22–7 UHR</summary><p>Wird kontrolliert!!!<br>– Sicherheitsdienst S. Ruppert</p></details><details class="voice"><summary>VERMISST</summary><p>Wer hat meinen Gartenzwerg „Hubert“ gesehen? Rote Mütze, freundlicher Blick.<br>– Angelika, P7</p></details></section><section id="v-plan" class="card alle" hidden><span class="lab"><span class="tag alle">FÜR BEIDE</span> Luftbild der Polizeidrohne, Samstag, 26.09. · Norden ist oben</span><h2>Lageplan</h2><figure class="photo"><a href="bilder/lageplan.jpg" target="_blank" rel="noopener"><img src="bilder/lageplan.jpg" alt="Beschriftetes Luftbild des Campingplatzes am Kiefernsee" loading="lazy"></a><figcaption>Tippt auf den Plan, um ihn groß zu sehen.</figcaption></figure><p class="small">Rita Schäfer wohnt auf Parzelle 3, gleich oberhalb vom Steg. Nova Sommer steht mit ihrem Van auf G2. Die Wetterstation hängt an der Gaststätte Seeklause.</p></section><section id="v-cast" class="card alle" hidden><span class="lab"><span class="tag alle">FÜR BEIDE</span> Personenregister zum Fall</span><h2>Wer ist wer am Kiefernsee?</h2><ul class="cast"><li><b>Holger Brandner</b> <span class="small">58 Jahre</span><p>Das Opfer. Projektentwickler, „Brandner Freizeit &amp; Resort GmbH“. Wollte den Platz kaufen. Wohnte übers Wochenende in Mietchalet 3.</p></li><li><b>Mark Böttcher</b> <span class="small">61 Jahre</span><p>Platzbetreiber. Will verkaufen: „Ich mäh seit 30 Jahren Rasen und lese Beschwerden.“</p></li><li><b>Angelika Wohlfahrt</b> <span class="small">67 Jahre</span><p>Dauercamperin seit 1998, Parzelle 7. Sprecherin der Dauercamper und Schriftführerin. Weiß alles über jeden.</p></li><li><b>Siggi Kowalski</b> <span class="small">64 Jahre</span><p>Dauercamper, Parzelle 14. Grillmeister, Schlagerfan, Gegner jeder Veränderung.</p></li><li><b>Marco Lenz</b> <span class="small">45 Jahre</span><p>Hausmeister. Repariert alles, streicht alles, hat Schlüssel für alles.</p></li><li><b>Sven Ruppert</b> <span class="small">34 Jahre</span><p>Sicherheitsdienst. Nimmt die Nachtruhe sehr, sehr ernst.</p></li><li><b>Nova Sommer</b> <span class="small">26 Jahre</span><p>Gast mit Van auf Stellplatz G2. Vanlife-Influencerin (@nova.on.wheels), reist mit Hund Pepper.</p></li><li><b>Rita Schäfer</b> <span class="small">59 Jahre</span><p>Kiosk und Brötchendienst, Parzelle 3 direkt am Steg. Hat den Toten gefunden.</p></li></ul></section>
 <section id="v-code" class="card alle" hidden>
 <span class="lab"><span class="tag alle">FÜR BEIDE</span> Akt 1 · Was ist passiert?</span><h2>Code-Prüfung</h2>
 <form id="codeForm" style="display:flex;flex-direction:column;gap:14px">

diff --git a/quellen/build_farbe.py b/quellen/build_farbe.py
@@ -590,6 +590,8 @@ def r5():
              "Niederschlag: 0 mm. Hinweis Wetterdienst: Ein Wind aus Südwest (SW) weht nach Nordosten.",
              "Mono", 9.2, 13) - 18
     c.setFont("SansB", 12); c.drawString(ML, y, "Mitschnitt des Notrufs")
+    c.setFont("SerifI", 10); c.setFillGray(0.3)
+    c.drawString(ML + pdfmetrics.stringWidth("Mitschnitt des Notrufs", "SansB", 12) + 10, y, "– ihr dürft ihn Akte Blau vorspielen."); c.setFillGray(0)
     y -= 10
     bw = W - ML - MR - 30
     tw = bw - 130
@@ -906,11 +908,13 @@ def hints_page():
         y = num_step(i, ML, y, t, sw) - 14
     qr(W - MR - 128, top - 112, 118, PORTAL + "#hints", "portal")
     y = min(y, top - 150) - 10
-    c.setFillColorRGB(0.99, 0.95, 0.85); c.roundRect(ML, y - 96, W - ML - MR, 96, 6, fill=1, stroke=0); c.setFillGray(0)
+    c.setFillColorRGB(0.99, 0.95, 0.85); c.roundRect(ML, y - 112, W - ML - MR, 112, 6, fill=1, stroke=0); c.setFillGray(0)
     c.setFont("SansB", 11.5); c.drawString(ML + 14, y - 22, "Wichtig: Nur einer öffnet den Hinweis!")
-    text(ML + 14, y - 40, W - ML - MR - 28,
-         "Jedes Handy zählt seine Hinweise selbst. Öffnen Rot und Blau dieselbe Stufe jeweils auf ihrem eigenen Handy, "
-         "werden 2 Punkte abgezogen statt 1. Darum: Einer öffnet den Hinweis und liest ihn laut vor.", "Serif", 10.5, 14.5)
+    yy = text(ML + 14, y - 40, W - ML - MR - 28,
+              "Jedes Handy zählt seine Hinweise selbst. Öffnen Rot und Blau dieselbe Stufe jeweils auf ihrem eigenen Handy, "
+              "werden 2 Punkte abgezogen statt 1.", "Serif", 10.5, 14.5)
+    fc(ROT); c.rect(ML + 14, y - 100, 4, 26, fill=1, stroke=0); c.setFillGray(0)
+    c.setFont("SansB", 12.5); c.drawString(ML + 26, y - 92, "Darum: Nur einer öffnet den Hinweis und liest ihn laut vor.")
     new_page()
 
 

diff --git a/quellen/gen_portal.py b/quellen/gen_portal.py
@@ -86,6 +86,7 @@ S["r5"] = card("r5", "R-5 · Wetterstation an der Gaststätte Seeklause, Nacht 2
                f'<div class="scroll"><table class="mono"><thead><tr><th>Uhrzeit</th><th>Temp. °C</th><th>Wind aus</th><th>km/h</th></tr></thead>'
                f'<tbody>{wt}</tbody></table></div><p class="small mono">Niederschlag: 0 mm. Hinweis Wetterdienst: Ein Wind aus Südwest (SW) weht nach Nordosten.</p>'
                '<h2 style="font-size:18px">Mitschnitt des Notrufs</h2>'
+               '<p>Ihr dürft ihn Akte Blau vorspielen.</p>'
                '<div class="voice"><span class="mono small">Leitstelle Seebrück · Sa 26.09. · 06:44 Uhr · 0:21</span>'
                '<audio controls preload="metadata" src="audio/notruf-r5.mp3">Euer Browser kann die Aufnahme nicht abspielen.</audio></div>'
                f'<details class="voice"><summary>Abschrift anzeigen</summary><div class="mono" style="font-size:14px;display:flex;flex-direction:column;gap:6px">{notruf}</div></details>', "rot")
